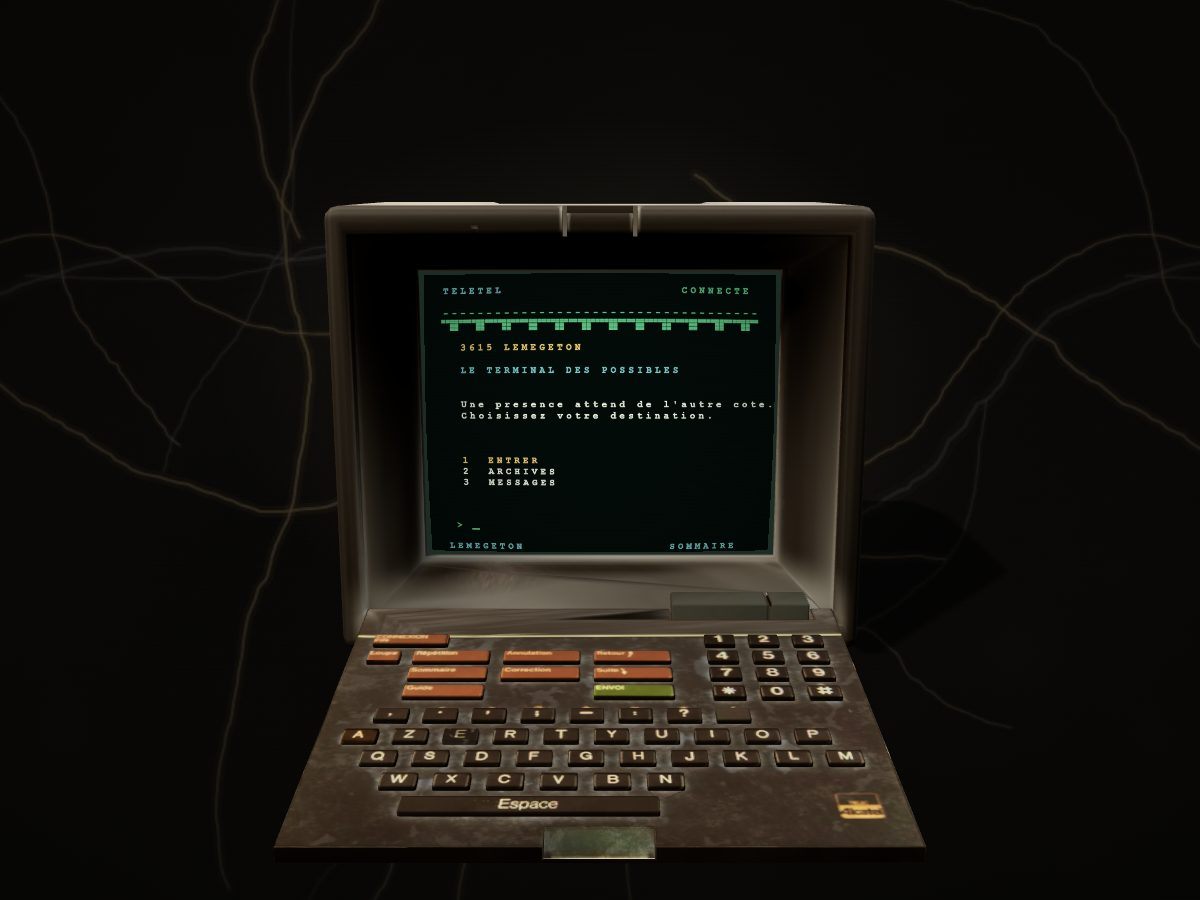
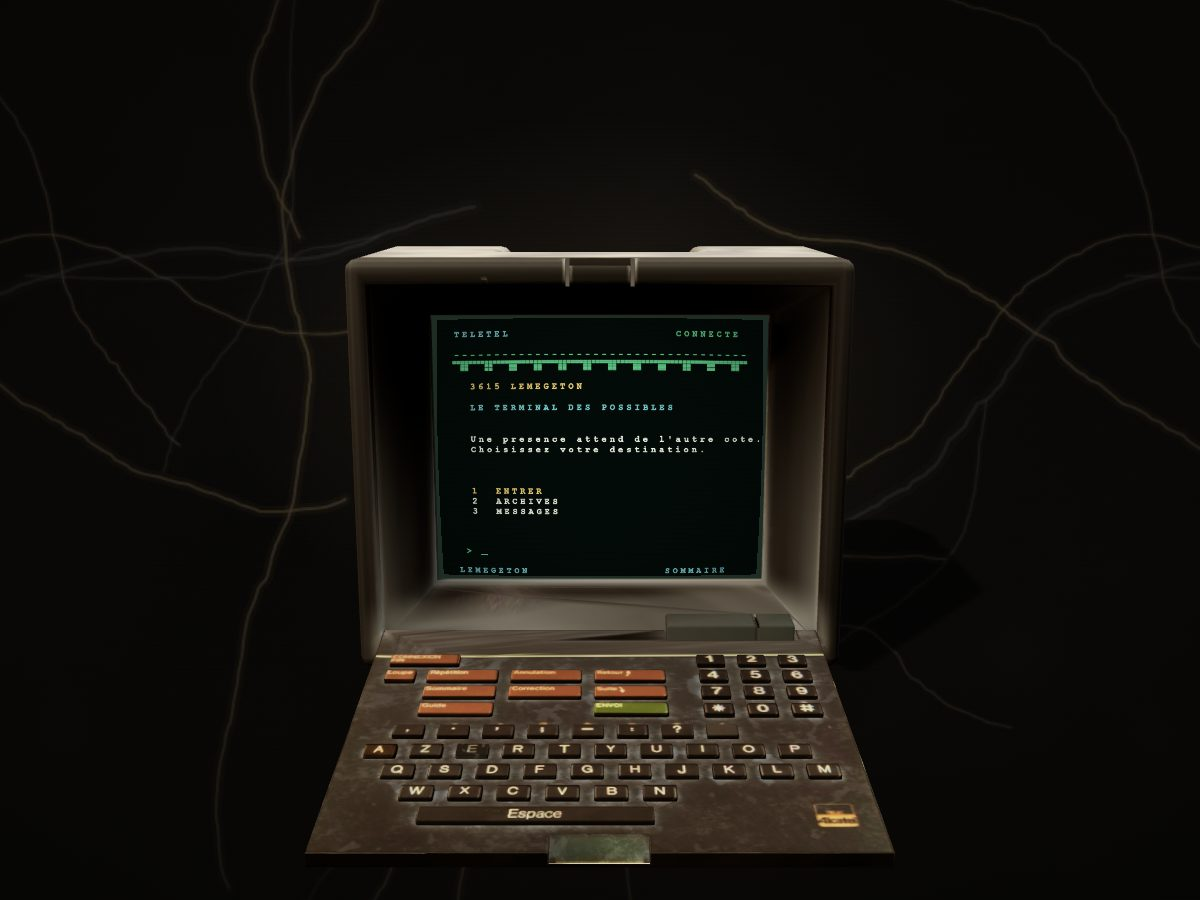
fix: aim the camera at the centre of the terminal screen
Every view (three-quarter, front, side, back, zoom) now orbits the centre of
the screen instead of a fixed point per framing (which aimed under the
screen when the terminal stands on its table).

- ModelProfile.screenCenter, measured from Minitel_Screen in each GLB
  (Minitel 0, 1.282, 0.743 ; television 0.014, 1.732, 0.46), falling back to
  screenFallback.position for other models
- framings are now offsets from that target (src/scene/framing.ts)
- browser tests check that the screen sits in the middle of the canvas
  (Terminatel on its table, television on the floor)
- documentation views and inventory miniatures re-captured

Changed region(s): [[0.2158, 0.2178, 0.7708, 0.9644]]

diff --git a/src/scene/framing.ts b/src/scene/framing.ts
@@ -1,35 +1,44 @@
-import type { Vec3 } from "../minitel/types";
+import type { ModelProfile, Vec3 } from "../minitel/types";
 
-// Camera framings. "desk" shows the terminal on its side table (the table top
-// is at y = 0, the table goes down to y = -5.95) ; "floor" frames a terminal
-// standing on the floor. Pure data : the browser tests reuse these values.
+// Camera framings. The camera always aims at the centre of the terminal's
+// screen ; each view is an offset from that point. "desk" stands further back
+// to show the side table, "floor" frames a terminal standing on the floor.
+// Pure data : the browser tests reuse these values.
+type View = { wide: Vec3; narrow: Vec3 };
 export interface Framing {
-  target: Vec3;
-  reset: { wide: Vec3; narrow: Vec3 };
-  front: { wide: Vec3; narrow: Vec3 };
-  side: { wide: Vec3; narrow: Vec3 };
-  back: { wide: Vec3; narrow: Vec3 };
+  reset: View;
+  front: View;
+  side: View;
+  back: View;
   minDistance: number;
   maxDistance: number;
 }
 
 export const framings: Record<"desk" | "floor", Framing> = {
   floor: {
-    target: [0, 1, 0.3],
-    reset: { wide: [4, 3.2, 7.3], narrow: [2.5, 3.5, 10.5] },
-    front: { wide: [0, 2.5, 7.3], narrow: [0, 2.5, 9.5] },
-    side: { wide: [7.3, 2.5, 0.3], narrow: [9.5, 2.5, 0.3] },
-    back: { wide: [0, 2.5, -7.3], narrow: [0, 2.5, -9.5] },
+    reset: { wide: [4, 2.2, 7], narrow: [2.5, 2.5, 10.2] },
+    front: { wide: [0, 1.5, 7], narrow: [0, 1.5, 9.2] },
+    side: { wide: [7, 1.5, 0], narrow: [9.2, 1.5, 0] },
+    back: { wide: [0, 1.5, -7], narrow: [0, 1.5, -9.2] },
     minDistance: 3.8,
     maxDistance: 11,
   },
   desk: {
-    target: [0, -0.9, 0.6],
-    reset: { wide: [5.4, 3.6, 10.6], narrow: [3.4, 4.6, 15] },
-    front: { wide: [0, 2.2, 11], narrow: [0, 2.6, 14.5] },
-    side: { wide: [11, 2.2, 0.6], narrow: [14.5, 2.6, 0.6] },
-    back: { wide: [0, 2.2, -11], narrow: [0, 2.6, -14.5] },
+    reset: { wide: [5.2, 3.2, 9.6], narrow: [3.4, 4, 13.5] },
+    front: { wide: [0, 1.6, 10.5], narrow: [0, 2, 13.5] },
+    side: { wide: [10.5, 1.6, 0], narrow: [13.5, 2, 0] },
+    back: { wide: [0, 1.6, -10.5], narrow: [0, 2, -13.5] },
     minDistance: 4.5,
     maxDistance: 17,
   },
 };
+
+/** Point the camera aims at : the screen centre declared by the profile. */
+export function cameraTarget(profile: ModelProfile): Vec3 {
+  return profile.screenCenter ?? profile.screenFallback.position;
+}
+
+/** Camera position for a view : target + offset. */
+export function viewPosition(target: Vec3, offset: Vec3): Vec3 {
+  return [target[0] + offset[0], target[1] + offset[1], target[2] + offset[2]];
+}

diff --git a/src/scene/Camera.tsx b/src/scene/Camera.tsx
@@ -2,7 +2,7 @@ import { useEffect, useRef, type ComponentRef } from "react";
 import { useThree } from "@react-three/fiber";
 import { OrbitControls } from "@react-three/drei";
 import type { Vec3 } from "../minitel/types";
-import type { Framing } from "./framing";
+import { viewPosition, type Framing } from "./framing";
 export interface CameraCommand {
   id: number;
   kind: "reset" | "front" | "side" | "back" | "zoomIn" | "zoomOut";
@@ -10,25 +10,31 @@ export interface CameraCommand {
 export function Camera({
   command,
   framing,
+  target,
   onCamera,
 }: {
   command: CameraCommand;
   framing: Framing;
+  /** Centre of the terminal screen : every view aims at it. */
+  target: Vec3;
   onCamera?: (position: Vec3) => void;
 }) {
   const ref = useRef<ComponentRef<typeof OrbitControls>>(null);
   const { camera, size, invalidate } = useThree();
   const narrow = size.width / size.height < 1.2;
+  const [tx, ty, tz] = target;
   useEffect(() => {
-    camera.position.set(...(narrow ? framing.reset.narrow : framing.reset.wide));
-    ref.current?.target.set(...framing.target);
+    const aim: Vec3 = [tx, ty, tz];
+    camera.position.set(...viewPosition(aim, narrow ? framing.reset.narrow : framing.reset.wide));
+    ref.current?.target.set(...aim);
     ref.current?.update();
     invalidate();
-  }, [narrow, framing, camera, invalidate]);
+  }, [narrow, framing, tx, ty, tz, camera, invalidate]);
   useEffect(() => {
     const controls = ref.current;
     if (!controls) return;
-    const view = narrow ? "narrow" : "wide";
+    const aim: Vec3 = [tx, ty, tz];
+    controls.target.set(...aim);
     if (command.kind === "zoomIn" || command.kind === "zoomOut") {
       const vector = camera.position.clone().sub(controls.target);
       const distance = Math.max(
@@ -39,10 +45,11 @@ export function Camera({
         ),
       );
       camera.position.copy(controls.target).add(vector.setLength(distance));
-    } else camera.position.set(...framing[command.kind][view]);
+    } else
+      camera.position.set(...viewPosition(aim, framing[command.kind][narrow ? "narrow" : "wide"]));
     controls.update();
     invalidate();
-  }, [command, camera, invalidate, narrow, framing]);
+  }, [command, camera, invalidate, narrow, framing, tx, ty, tz]);
   return (
     <OrbitControls
       ref={ref}
@@ -53,7 +60,7 @@ export function Camera({
       maxDistance={framing.maxDistance}
       minPolarAngle={0.32}
       maxPolarAngle={Math.PI / 2 - 0.03}
-      target={framing.target}
+      target={target}
       onChange={() => onCamera?.(camera.position.toArray() as Vec3)}
     />
   );

diff --git a/tests/browser/app.spec.ts b/tests/browser/app.spec.ts
@@ -1,6 +1,7 @@
 import { test, expect, type Page } from "@playwright/test";
 import { PerspectiveCamera, Vector3 } from "three";
-import { framings } from "../../src/scene/framing";
+import { cameraTarget, framings, viewPosition } from "../../src/scene/framing";
+import { suppliedProfile } from "../../src/minitel/profiles";
 test("lecture Canvas apres changement de visibilite avec frame stable", async ({ page }) => {
   await page.goto("/");
   const alpha = await page.evaluate(async () => {
@@ -85,6 +86,14 @@ async function scenePixels(page: Page) {
     };
   });
 }
+// The camera aims at the centre of the screen : the green phosphor block must
+// sit around the middle of the canvas.
+function expectScreenCentered(p: Awaited<ReturnType<typeof scenePixels>>) {
+  const cx = (p.minX + p.maxX) / 2 / p.width;
+  const cy = (p.minY + p.maxY) / 2 / p.height;
+  expect(Math.abs(cx - 0.5)).toBeLessThan(0.06);
+  expect(Math.abs(cy - 0.5)).toBeLessThan(0.06);
+}
 test("asset, ecran dynamique, navigation, camera et responsive", async ({
   page,
 }, testInfo) => {
@@ -106,6 +115,7 @@ test("asset, ecran dynamique, navigation, camera et responsive", async ({
   expect(initial.maxX).toBeLessThan(initial.width - 2);
   expect(initial.minY).toBeGreaterThan(2);
   expect(initial.maxY).toBeLessThan(initial.height - 2);
+  expectScreenCentered(initial);
   await page.screenshot({
     path: `docs/verification/${testInfo.project.name}-home.png`,
   });
@@ -219,8 +229,9 @@ test("touche 3D, clavier physique, zoom et inspection", async ({
   // Default model : Terminatel 255, on its table ("desk" framing).
   const desk = framings.desk;
   const narrow = box.width / box.height < 1.2;
-  camera.position.set(...(narrow ? desk.front.narrow : desk.front.wide));
-  camera.lookAt(...desk.target);
+  const target = cameraTarget(suppliedProfile);
+  camera.position.set(...viewPosition(target, narrow ? desk.front.narrow : desk.front.wide));
+  camera.lookAt(...target);
   camera.updateMatrixWorld();
   const projected = new Vector3(0.595, 0.275, 1.47).project(camera);
   await page.mouse.click(
@@ -318,6 +329,7 @@ test("bascule entre les modeles du catalogue", async ({ page }) => {
   const television = await scenePixels(page);
   expect(television.object).toBeGreaterThan(1000);
   expect(television.colored).toBeGreaterThan(100);
+  expectScreenCentered(television);
   expect(television.hash).not.toBe(terminatel.hash);
   await switcher.getByRole("radio", { name: "Televiseur 1950" }).focus();
   await page.keyboard.press("ArrowLeft");

diff --git a/src/scene/Scene.tsx b/src/scene/Scene.tsx
@@ -4,7 +4,8 @@ import { Minitel, type MinitelProps } from "../minitel/Minitel";
 import { Lighting } from "./Lighting";
 import { Camera, type CameraCommand } from "./Camera";
 import { Table, TABLE_TOP } from "./Table";
-import { framings } from "./framing";
+import { cameraTarget, framings } from "./framing";
+import { genericProfile } from "../minitel/profiles";
 import type { Vec3 } from "../minitel/types";
 function Metrics({
   onMetrics,
@@ -99,7 +100,12 @@ export function Scene({
         aria-label="Minitel 3D interactif"
       >
         <Lighting />
-        <Camera command={command} framing={framings[table ? "desk" : "floor"]} onCamera={onCamera} />
+        <Camera
+          command={command}
+          framing={framings[table ? "desk" : "floor"]}
+          target={cameraTarget(props.profile ?? genericProfile)}
+          onCamera={onCamera}
+        />
         <ContextMonitor onError={onError} />
         <Minitel {...props} />
         {table && (

diff --git a/src/minitel/profiles.ts b/src/minitel/profiles.ts
@@ -14,6 +14,8 @@ export const genericProfile: ModelProfile = {
 export const suppliedProfile: ModelProfile = {
   ...genericProfile,
   normalize: false,
+  // Bounds centre of Minitel_Screen in public/models/minitel.glb.
+  screenCenter: [0, 1.282, 0.743],
   keys: {
     Object_51: "1",
     Object_52: "2",
@@ -71,6 +73,8 @@ export const televisionProfile: ModelProfile = {
   ...genericProfile,
   normalize: false,
   screenFallback: { position: [0, 1.73, 0.5], size: [1.34, 1.12] },
+  // Bounds centre of Minitel_Screen in public/models/television-1950.glb.
+  screenCenter: [0.014, 1.732, 0.46],
   anchors: {
     top: { position: [0, 2.4, 0] },
     left: { position: [-1.78, 1.2, 0] },

diff --git a/src/minitel/types.ts b/src/minitel/types.ts
@@ -24,6 +24,8 @@ export interface ModelProfile {
   normalize: boolean;
   screenNames: string[];
   screenFallback: { position: Vec3; rotation?: Vec3; size: [number, number] };
+  /** Centre of the screen in the presentation frame ; the camera aims at it. */
+  screenCenter?: Vec3;
   anchors: Record<string, Anchor>;
   keys: Record<string, string>;
 }

diff --git a/docs/USAGE.md b/docs/USAGE.md
@@ -157,6 +157,9 @@ Pour ajouter un modele :
   d'appoint (`src/scene/Table.tsx`). Le terminal reste a l'origine : la table est
   descendue de sa hauteur, 5,95 unites. La camera passe alors au cadrage `desk` de
   `src/scene/framing.ts`, et le televiseur garde le cadrage `floor`.
+- **Camera** : elle vise toujours le centre de l'ecran du modele (`screenCenter` du
+  `ModelProfile`, ou a defaut `screenFallback.position`). Les vues trois quarts, face,
+  profil et dos sont des decalages depuis ce point.
 - **Inventaire** : les cartes du bas (`src/components/ModelInventory.tsx`) forment
   un groupe radio, au clic comme aux fleches. L'effet 3D est purement CSS (perspective,
   transformations) et se fige avec `prefers-reduced-motion`. Les miniatures detourees
